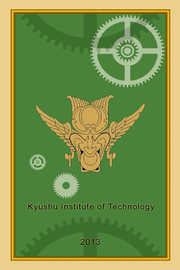
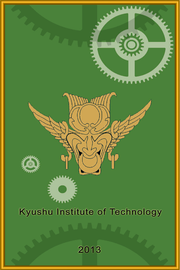
裏面の黄色い余白を詰めて枠を細くする

diff --git a/shared/game-client/densho-revision.ts b/shared/game-client/densho-revision.ts
@@ -1,2 +1,2 @@
 // Generated by build-densho-cards.mjs; do not edit.
-export const DENSHO_ASSET_REVISION = '24122b867516';
+export const DENSHO_ASSET_REVISION = '414c8065d2a5';
